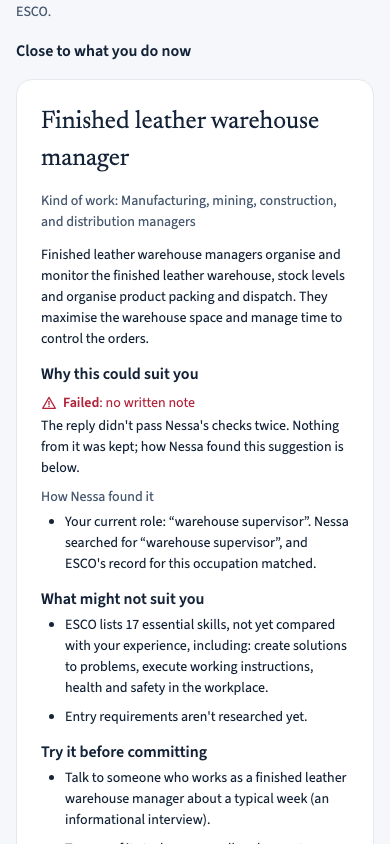
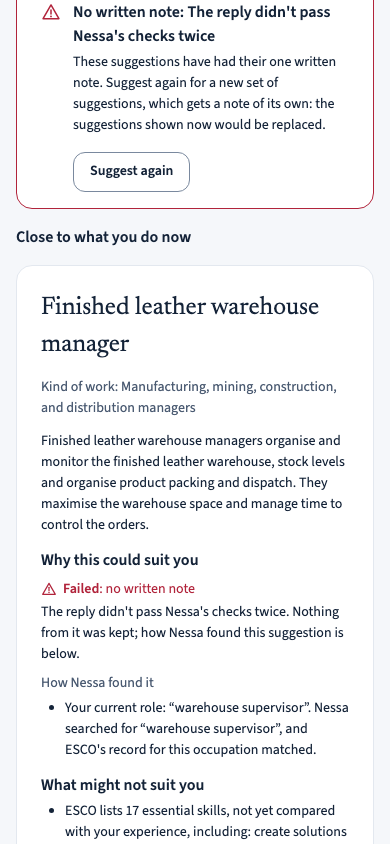
Fix round 1: recapture the note's states; Suggest again shows only its own words
Captures for the written note's new wording, the unavailable note with its
Suggest again, and the new retry state, at 1440x900, 768x1024 and 390x844.
A note that already sent its request no longer repeats the failure's own
advice, which could say "try again" beside a Suggest again action. The
visual spec passes its scroll target into the page.

diff --git a/apps/web/src/components/Directions.test.tsx b/apps/web/src/components/Directions.test.tsx
@@ -324,6 +324,7 @@ describe("[REC1-11] the written why: one request per slate, its states, provenan
     const notice = screen.getByText(/These suggestions have had their one written note\./);
     expect(notice).toHaveTextContent(/would be replaced/); // it says what Suggest again does
     expect(screen.queryByRole("button", { name: /Try again/ })).toBeNull();
+    expect(screen.queryByText(/Try again, or add the details yourself/)).toBeNull(); // not offered
     await user.click(screen.getByRole("button", { name: "Suggest again" }));
 
     await waitFor(() => expect(sent.some((s) => s.path.endsWith("/discoveries"))).toBe(true));

diff --git a/apps/web/e2e/visual.spec.ts b/apps/web/e2e/visual.spec.ts
@@ -215,8 +215,10 @@ const slateNote =
     const anchor = notice
       ? directions.getByText(/^No written note:/)
       : first.getByText("Why this could suit you");
-    await anchor.evaluate((element) =>
-      element.scrollIntoView({ block: notice ? "start" : "center" }),
+    // The callback runs in the page, so the block is passed to it.
+    await anchor.evaluate(
+      (element, block) => element.scrollIntoView({ block }),
+      notice ? ("start" as const) : ("center" as const),
     );
   };
 

diff --git a/apps/web/src/components/Directions.tsx b/apps/web/src/components/Directions.tsx
@@ -362,7 +362,9 @@ function NoteRecovery({
         )
       }
     >
-      <p>{state.action}</p>
+      {/* Once the slate has had its call, only Suggest again is offered, so a failure's
+          own advice (which may say "try again") is not repeated. */}
+      {!again && <p>{state.action}</p>}
       <p>
         {again
           ? NOTE_RECOVERY.suggestAgain
